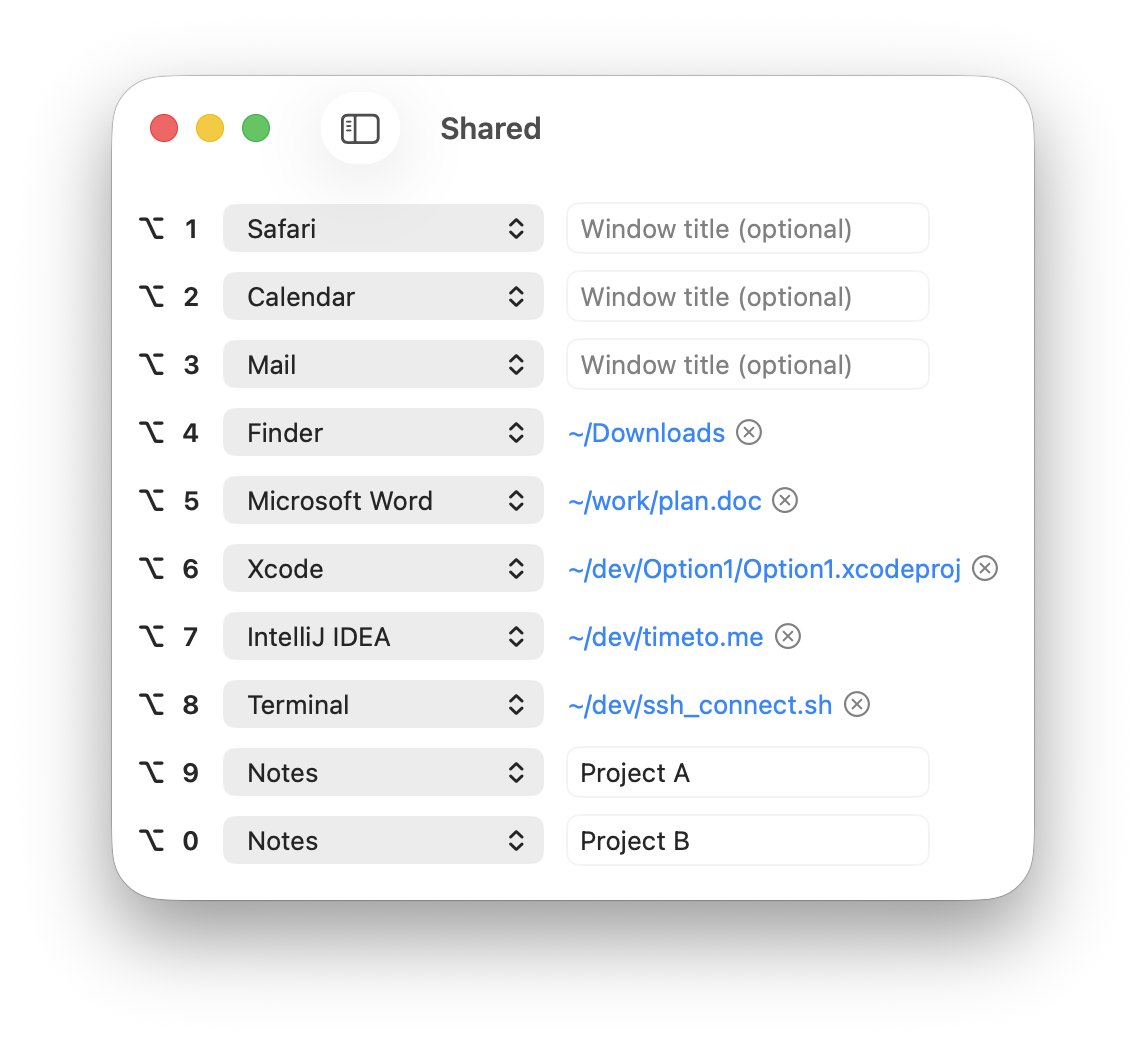
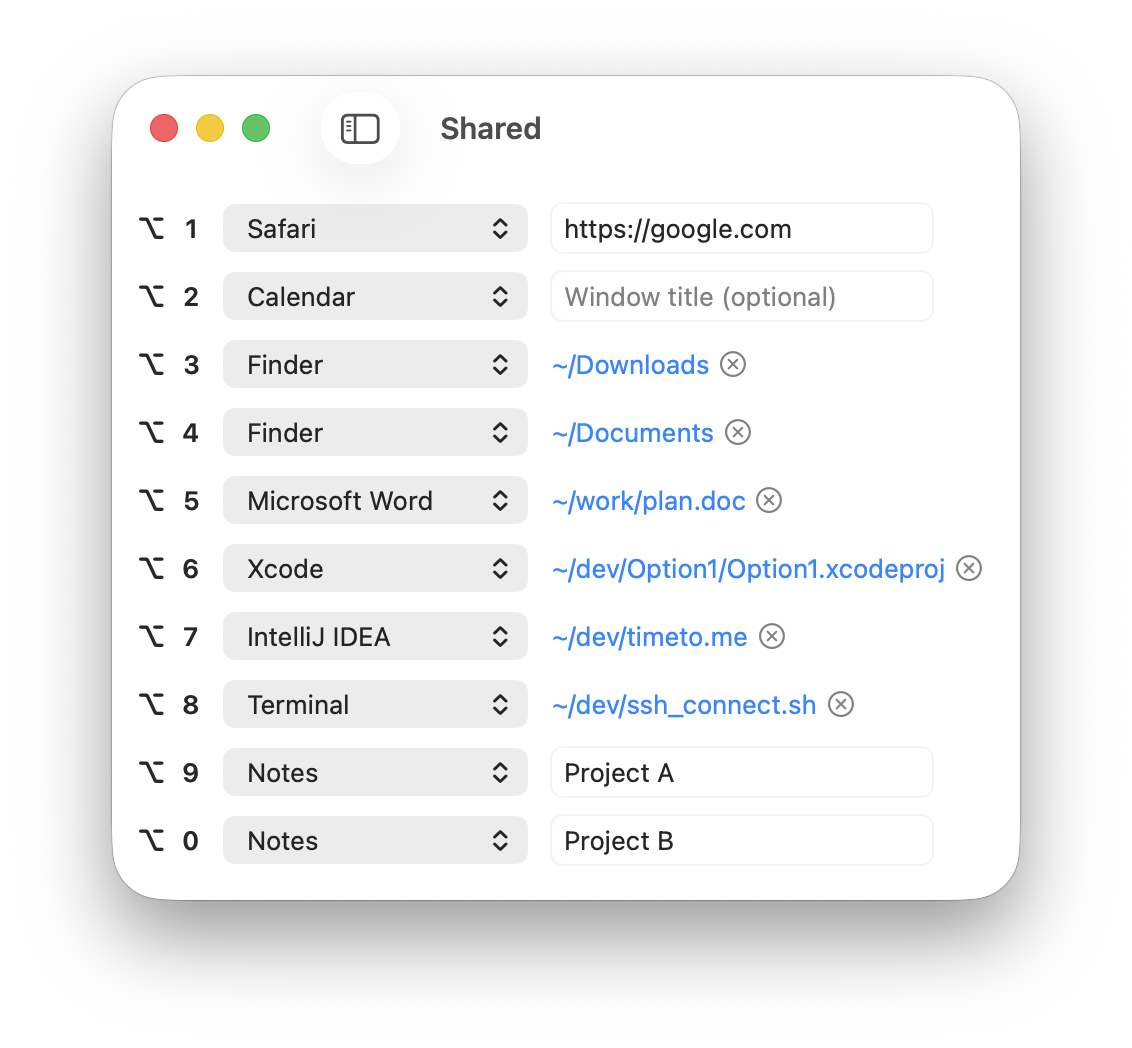
WorkspaceBindView.swift:

diff --git a/Option1/UI/Screens/Workspace/WorkspaceBindView.swift b/Option1/UI/Screens/Workspace/WorkspaceBindView.swift
@@ -82,11 +82,15 @@ struct WorkspaceBindView: View {
                             formUi.substring = path
                         },
                     )
+                } else if BundleIds.isBrowser(bundle: bundle) {
+                    TextField("https://google.com (optional)", text: $formUi.substring)
+                        .autocorrectionDisabled()
+                        .frame(width: 190)
                 } else {
                     
                     TextField("Window title (optional)", text: $formUi.substring)
                         .autocorrectionDisabled()
-                        .frame(width: 180)
+                        .frame(width: 190)
                     
                     if !isScreenshotsMode {
                         
